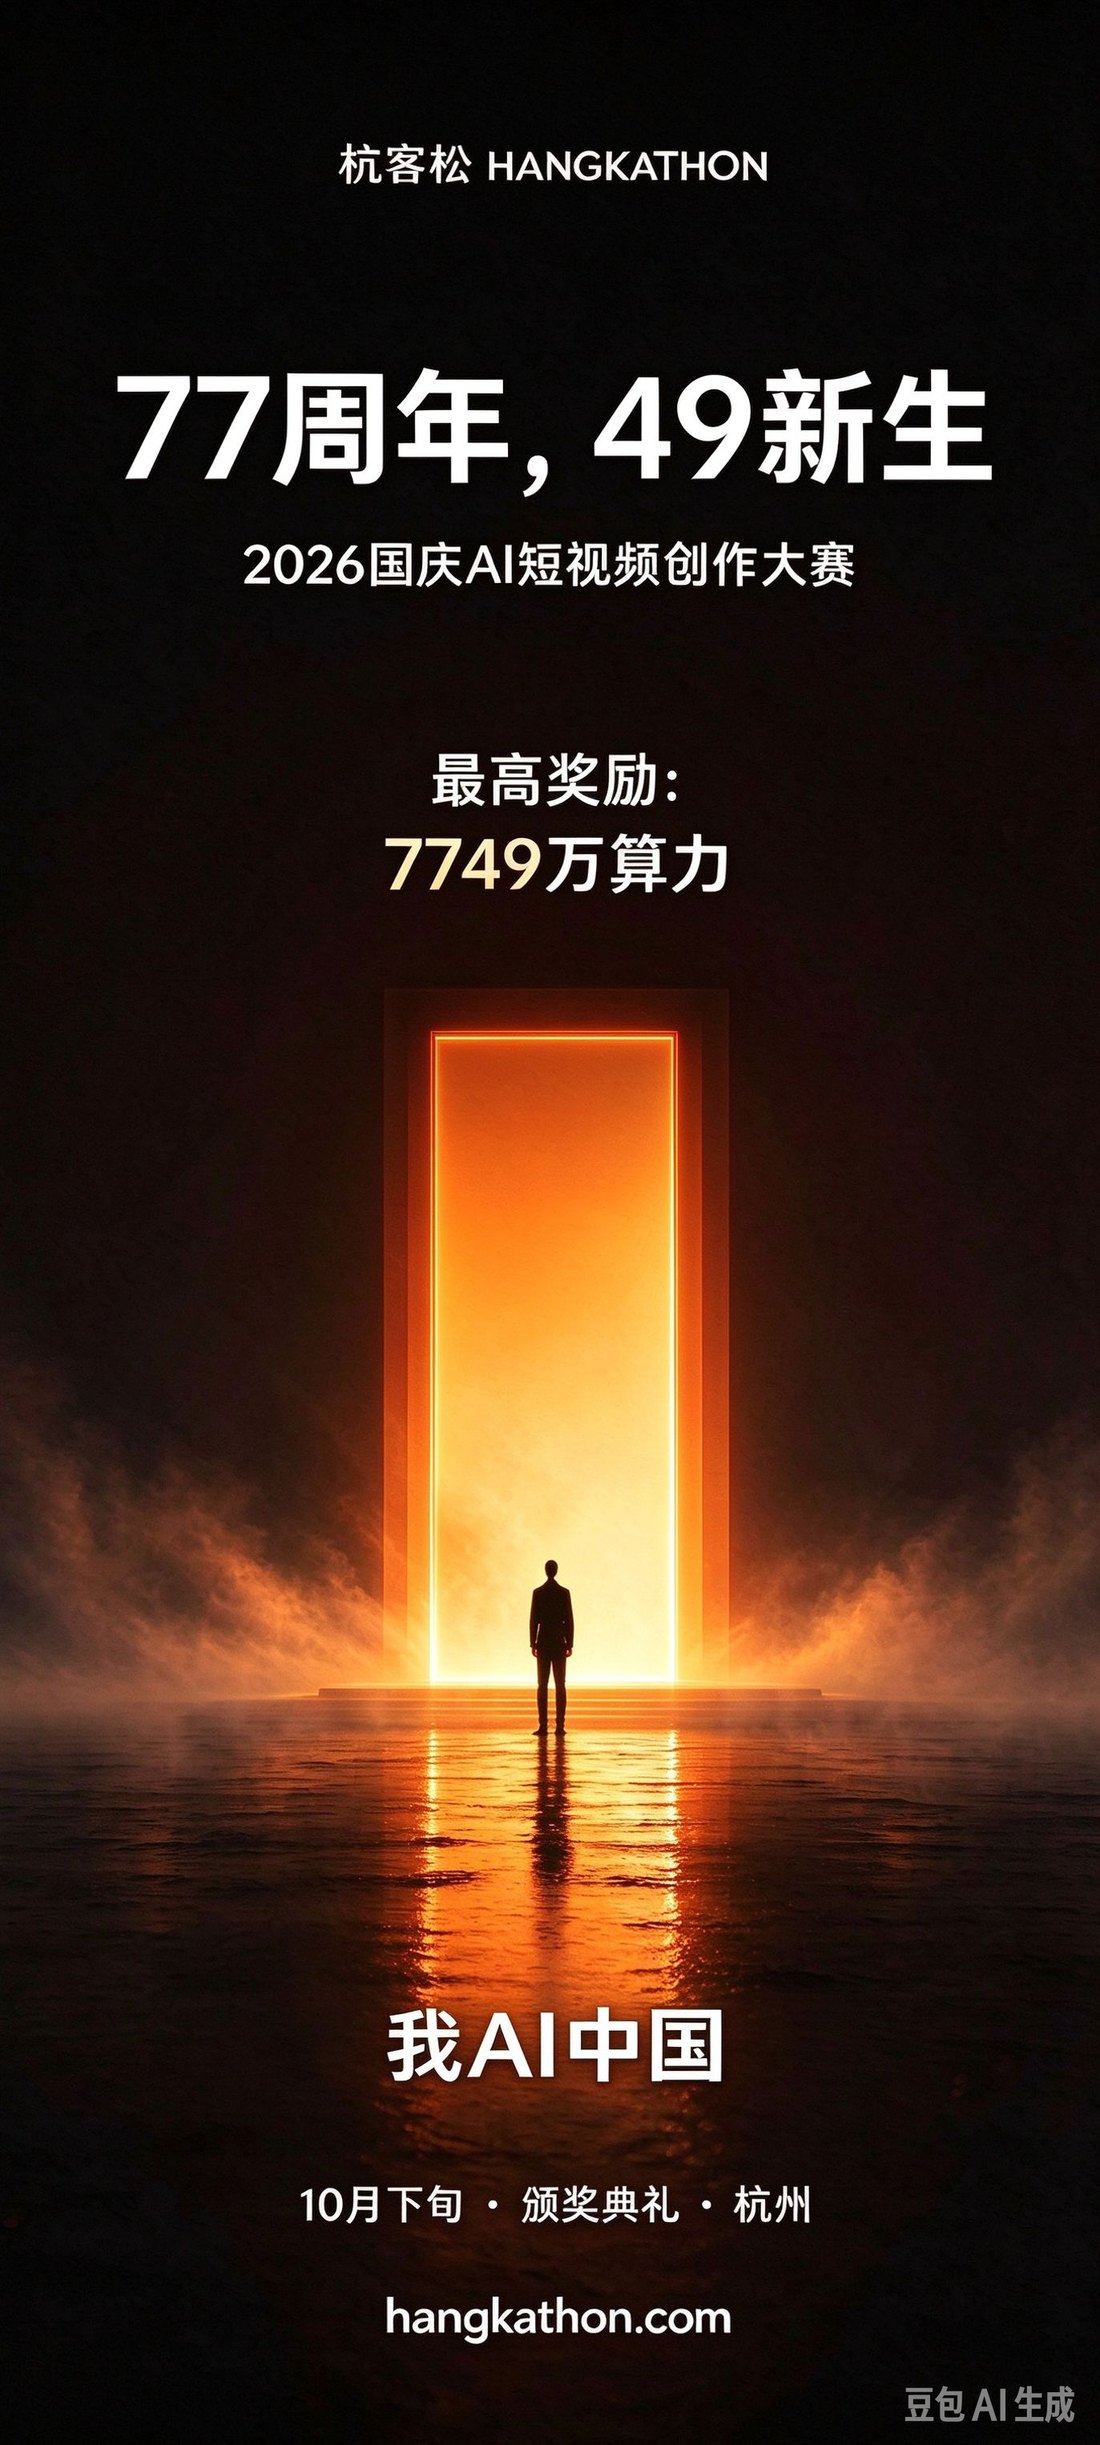
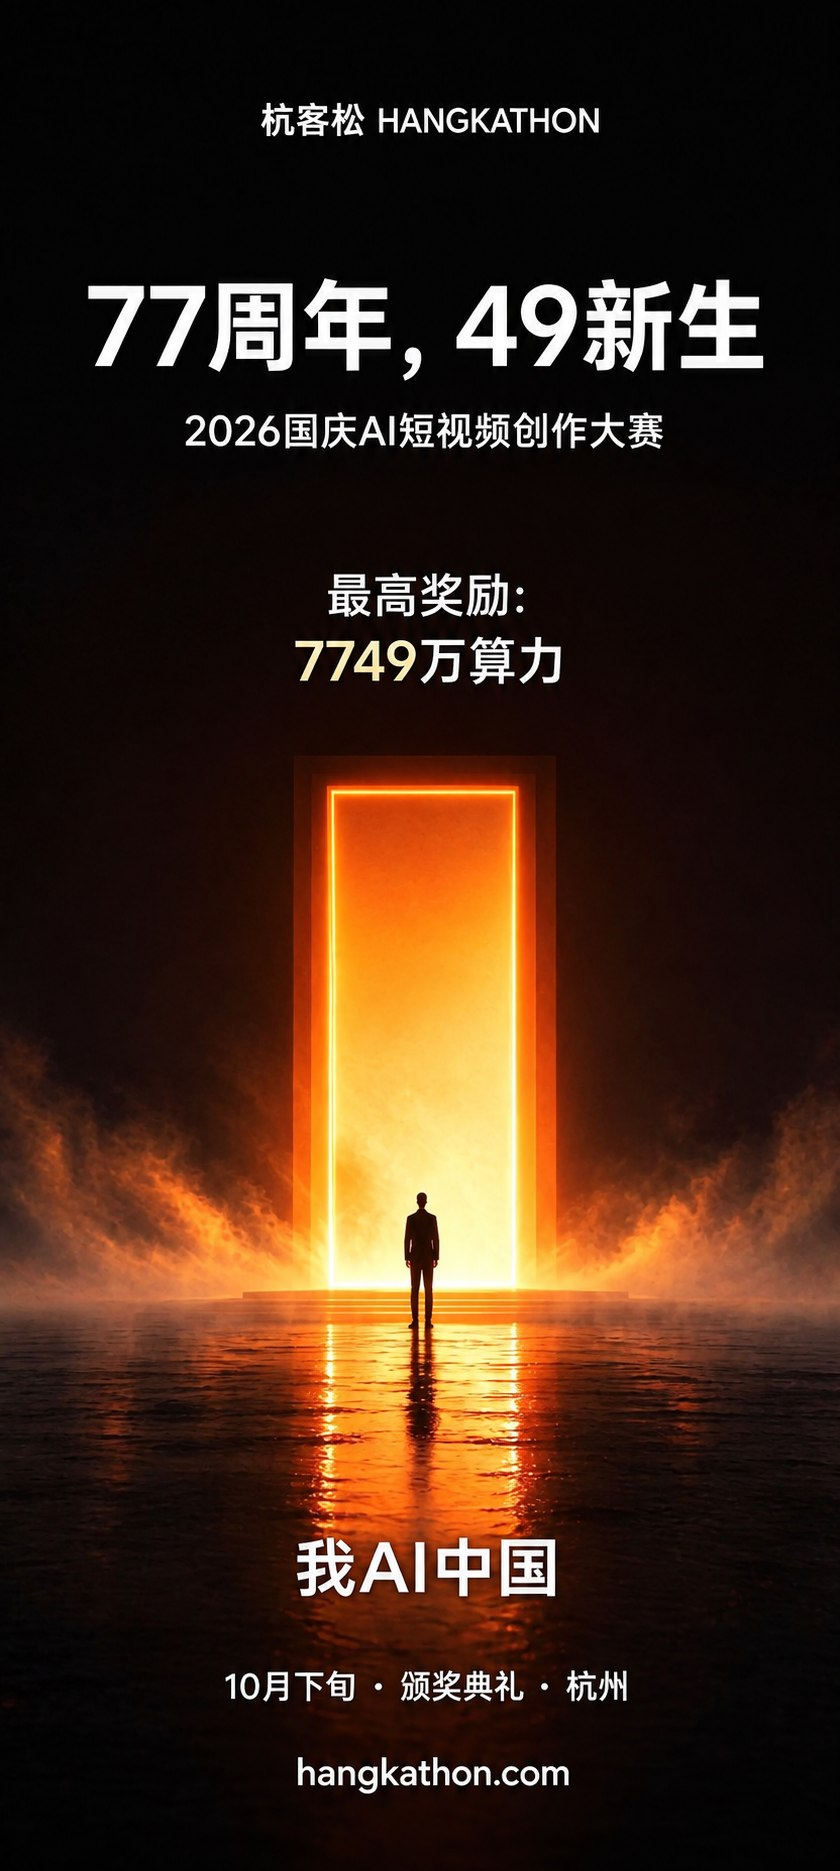
ui: swap in the watermark-free guoqing poster and give it its own middle column (no gap in the main text flow)

diff --git a/app/activities/[slug]/detail.css b/app/activities/[slug]/detail.css
@@ -11,15 +11,15 @@
    旧版靠 hero 里的标签行和 -30px 负 margin 撑位置，标签删除后标题直接顶进导航。 */
 .detail-hero{padding:168px 6% 34px;border-bottom:1px solid #e2ecf6}
 .detail-hero h1{font-size:clamp(26px,3.2vw,38px);font-weight:600;letter-spacing:1px;line-height:1.45;margin:0;color:#17273a}
-/* 海报：浮在「你要做什么」正文右侧（对齐侧栏留出的空带），窄屏改为整宽居中 */
-.detail-poster{float:right;width:min(320px,44%);margin:4px 0 22px 32px}
-.detail-poster img{display:block;width:100%;height:auto;border-radius:14px;border:1px solid #e2ecf6;box-shadow:0 10px 34px rgba(12,42,80,.16)}
 .detail-sub{font-size:15px;line-height:1.9;color:#5b6b7d;margin:14px 0 0}
 .detail-host{font-size:12.5px;letter-spacing:.5px;color:#7c93a8;margin:16px 0 0}
 .detail-contact{font-size:12.5px;letter-spacing:.5px;color:#7c93a8;margin:8px 0 0}
 
-.detail-body{display:grid;grid-template-columns:minmax(0,1fr) 330px;gap:44px;padding:40px 6% 70px;align-items:start}
-.detail-main{display:flex;flex-direction:column;gap:36px;min-width:0}
+.detail-body{display:grid;grid-template-columns:minmax(0,1fr) 330px;grid-template-areas:"main side";gap:44px;padding:40px 6% 70px;align-items:start}
+.detail-body.has-poster{grid-template-columns:minmax(0,1fr) 300px 330px;grid-template-areas:"main poster side"}
+.detail-main{display:flex;flex-direction:column;gap:36px;min-width:0;grid-area:main}
+.detail-poster{grid-area:poster;margin:0;position:sticky;top:132px}
+.detail-poster img{display:block;width:100%;height:auto;border-radius:14px;border:1px solid #e2ecf6;box-shadow:0 10px 34px rgba(12,42,80,.16)}
 .detail-section h2{font-size:20px;font-weight:600;letter-spacing:1px;margin:0 0 16px;color:#17273a}
 .detail-eyebrow{font-size:10px;letter-spacing:2px;color:#0aa2e0;margin:0 0 8px}
 .detail-text{font-size:14.5px;line-height:2.05;color:#42566b;margin:0;white-space:pre-wrap}
@@ -42,7 +42,7 @@
 .detail-chips{display:flex;flex-wrap:wrap;gap:9px}
 .detail-chips span{display:flex;align-items:center;height:32px;padding:0 15px;border:1px solid #dce7f2;border-radius:20px;background:#fff;color:#42566b;font-size:13px}
 
-.detail-side{position:sticky;top:24px;display:flex;flex-direction:column;gap:18px}
+.detail-side{grid-area:side;position:sticky;top:24px;display:flex;flex-direction:column;gap:18px}
 .detail-facts,.detail-join{border:1px solid #dce7f2;border-radius:16px;background:#ffffff;padding:24px;display:flex;flex-direction:column;gap:14px;box-shadow:0 2px 10px rgba(23,58,102,.05)}
 .detail-facts h2{font-size:13px;letter-spacing:2px;color:#8fa6bb;font-weight:500;margin:0}
 .detail-facts dl{display:flex;flex-direction:column;gap:13px;margin:0}
@@ -107,9 +107,9 @@
 .invite-refuse-quiet{height:38px;margin-top:10px;padding:0 20px;font-size:13px}
 
 @media(max-width:1050px){
-  .detail-body{grid-template-columns:1fr;gap:32px;padding:32px 6% 56px}
-  .detail-side{position:static;order:-1}
-  .detail-poster{float:none;width:min(360px,100%);margin:0 0 22px}
+  .detail-body,.detail-body.has-poster{grid-template-columns:1fr;grid-template-areas:"side" "poster" "main";gap:32px;padding:32px 6% 56px}
+  .detail-side{position:static}
+  .detail-poster{position:static;width:min(360px,100%);margin:0 auto}
 }
 @media(max-width:760px){
   .detail-top{padding:18px 6%;gap:12px}

diff --git a/app/activities/[slug]/activity-detail.tsx b/app/activities/[slug]/activity-detail.tsx
@@ -360,15 +360,15 @@ export default function ActivityDetail({ slug, initial }: { slug: string; initia
         );
       })()}
 
-      <div className="detail-body">
+      <div className={`detail-body${activity.image ? " has-poster" : ""}`}>
+        {activity.image && (
+          <figure className="detail-poster">
+            <img src={activity.image} alt={`${activity.title} 海报`} loading="lazy" />
+          </figure>
+        )}
         <div className="detail-main">
           <section data-reveal="block" className="detail-section" aria-labelledby="detail-overview">
             <p className="detail-eyebrow">WHAT YOU DO</p>
-            {activity.image && (
-              <figure className="detail-poster">
-                <img src={activity.image} alt={`${activity.title} 海报`} loading="lazy" />
-              </figure>
-            )}
             <h2 id="detail-overview">你要做什么</h2>
             {activity.overview ? (
               <p className="detail-text">{activity.overview}</p>
